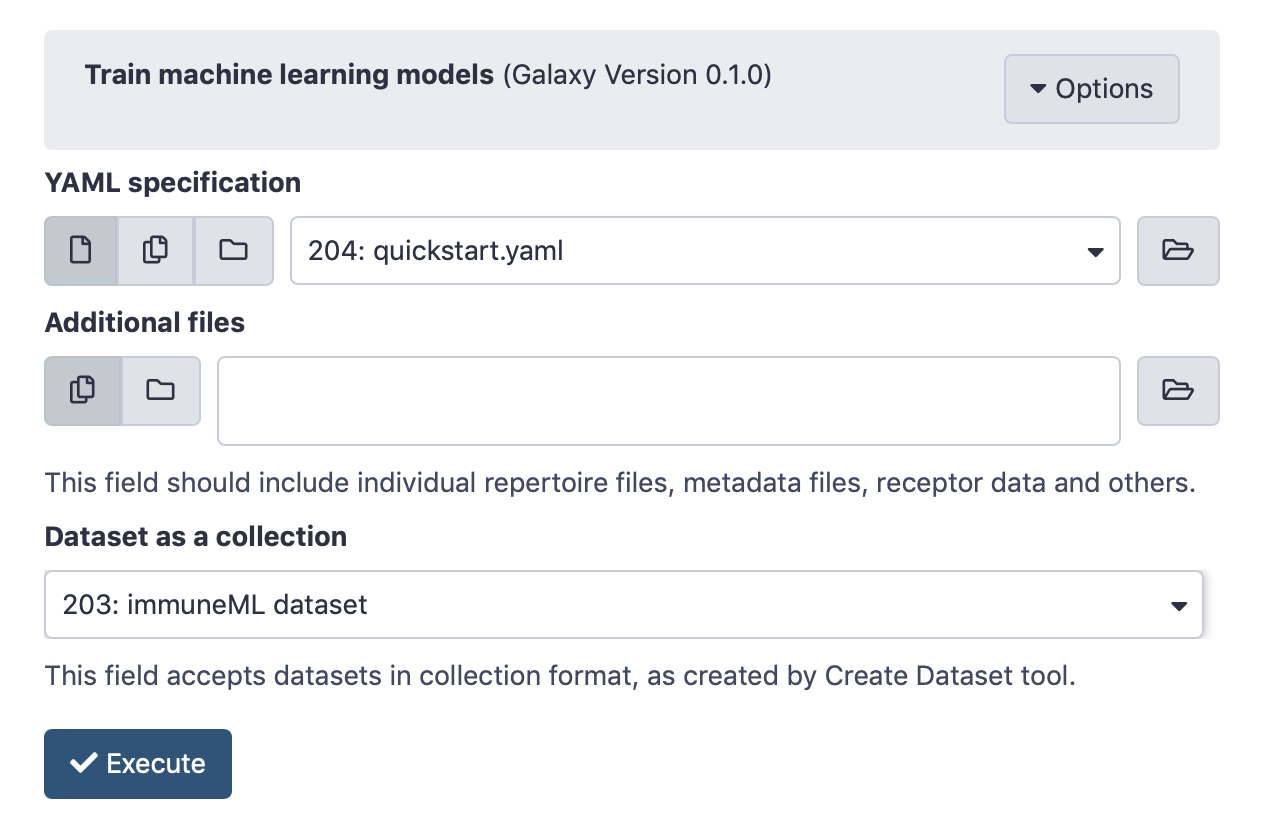
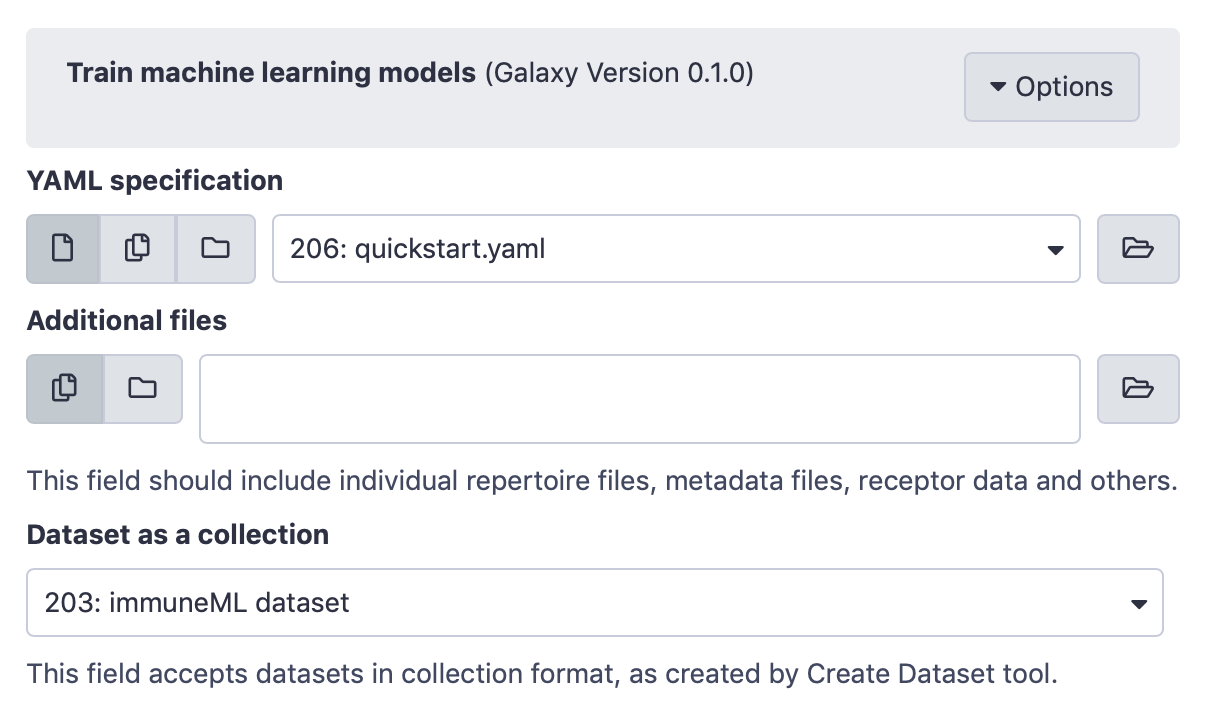
Updated quickstart (#72)
* Updated quickstart; use repertoires from collection now, add 'create dataset' to quickstart

* minor rephrasing to avoid confusion

* update train ML model screenshot so history element numbers match with what user would get

diff --git a/docs/source/quickstart/galaxy_yaml.rst b/docs/source/quickstart/galaxy_yaml.rst
@@ -25,19 +25,20 @@ Step 1: importing the dataset to a Galaxy history
 ^^^^^^^^^^^^^^^^^^^^^^^^^^^^^^^^^^^^^^^^^^^^^^^^^
 
 Every immuneML analysis takes a dataset as input. For the Quickstart tutorial, an example dataset has been prepared and is
-available through `this Galaxy history <https://galaxy.immuneml.uio.no/u/immuneml/h/quickstart-dataset>`_.
+available through `this Galaxy history <https://galaxy.immuneml.uio.no/u/immuneml/h/quickstart-data>`_.
 Alternatively, the tutorial :ref:`How to make an immuneML dataset in Galaxy` describes in detail
 how to make an immuneML dataset using your own data.
 
 This Quickstart dataset Galaxy history contains the following items:
 
+- 100 repertoire .tsv files in AIRR format.
+
+- A Collection of repertoires. This history element collects the 100 above-mentioned repertoire files in a Galaxy collection.
+  To read how to make your own Galaxy collection, see :ref:`Creating a Galaxy collection of files`.
+
 - A metadata.csv file. The metadata file describes which of the 100 repertoires are diseased and healthy, under the
   column named 'signal_disease' which contains the values True and False.
   For details about the metadata file, see :ref:`What should the metadata file look like?`.
-
-- 100 repertoire .tsv files in AIRR format.
-
-- immuneML dataset: a galaxy collection made using the above-mentioned files.
 
 Individual files can be inspected by clicking the eyeball icons.
 To import the complete history, click the + icon in the right upper corner.
@@ -46,8 +47,31 @@ To import the complete history, click the + icon in the right upper corner.
    :alt: import button Galaxy
    :width: 250
 
+Step 2: creating an immuneML Galaxy dataset
+^^^^^^^^^^^^^^^^^^^^^^^^^^^^^^^^^^^^^^^^^^^^^^^^^
+Use the `Create dataset <https://galaxy.immuneml.uio.no/root?tool_id=immune_ml_dataset>`_ Galaxy tool to make an
+immuneML dataset out of the files in the Galaxy history.
+Using the simplified interface, select 'repertoire dataset' and 'AIRR' data format, and select the metadata.csv file as metadata file.
+All repertoire files should be selected under 'Data files'. By default, the menu will allow you to select all txt-like files
+that are present in the Galaxy history. With smaller datasets, you can simply select all individual repertoire
+or receptor files here. Since this is a larger dataset, we will instead select the collection of repertoire files.
+Click the 'Dataset collections' button (folder icon), the menu will now only show the collections in the Galaxy history.
+Select the collection of repertoires so it becomes highlighted.
 
-Step 2: writing the YAML specification
+.. image:: ../_static/images/galaxy/create_dataset_from_collection.png
+   :alt: create dataset from collection
+   :width: 500
+
+Three new items will appear in the Galaxy history. In 'Summary: dataset generation' you can find details about the newly
+generated dataset, including the name of the dataset, the dataset type and size, and a download link.
+
+The next item, 'Archive: dataset generation' contains an archive of the output folder produced by immuneML.
+
+Finally, 'immuneML dataset' is a new Galaxy collection containing all relevant files for the dataset.
+This history item should be selected as an input in subsequent tools.
+
+
+Step 3: writing the YAML specification
 ^^^^^^^^^^^^^^^^^^^^^^^^^^^^^^^^^^^^^^^^^^^^^^^^^
 Any immuneML analysis is described by a YAML specification file.
 This file contains nested key-value pairs. Mandatory keywords with a specific meaning are marked like :code:`this`
@@ -87,10 +111,9 @@ The complete YAML specification for this analysis looks like this and can be dow
     definitions:
       datasets:
         my_dataset: # user-defined dataset name
-          format: AIRR
+          format: Pickle
           params:
-            is_repertoire: true # we are importing a repertoire dataset
-            metadata_file: metadata.csv
+            path: dataset.iml_dataset # 'dataset' is the default name given by the Create dataset tool
 
       encodings:
         my_kmer_frequency: # user-defined encoding name
@@ -144,7 +167,7 @@ The file will appear as a new history element.
    :alt: upload data Galaxy
    :width: 250
 
-Step 3: running the analysis
+Step 4: running the analysis
 ^^^^^^^^^^^^^^^^^^^^^^^^^^^^^^^^^^^^^^^^^^^^^^^^^
 
 Next, the `Train machine learning models <https://galaxy.immuneml.uio.no/root?tool_id=immuneml_train_ml_model>`_ Galaxy tool should be used.
@@ -154,7 +177,7 @@ Select the YAML specification and previously created dataset from the history, a
    :alt: train ML model tool
    :width: 500
 
-Step 4: understanding the results
+Step 5: understanding the results
 ^^^^^^^^^^^^^^^^^^^^^^^^^^^^^^^^^^^^^^^^^^^^^^^^^
 
 After running the Galaxy tool for training ML models, three new items will appear in the Galaxy history.

diff --git a/docs/source/quickstart/galaxy_simple.rst b/docs/source/quickstart/galaxy_simple.rst
@@ -24,19 +24,20 @@ Step 1: importing the dataset to a Galaxy history
 ^^^^^^^^^^^^^^^^^^^^^^^^^^^^^^^^^^^^^^^^^^^^^^^^^
 
 Every immuneML analysis takes a dataset as input. For the Quickstart tutorial, an example dataset has been prepared and is
-available through `this Galaxy history <https://galaxy.immuneml.uio.no/u/immuneml/h/quickstart-dataset>`_.
+available through `this Galaxy history <https://galaxy.immuneml.uio.no/u/immuneml/h/quickstart-data>`_.
 Alternatively, the tutorial :ref:`How to make an immuneML dataset in Galaxy` describes in detail
 how to make an immuneML dataset using your own data.
 
 This Quickstart dataset Galaxy history contains the following items:
 
+- 100 repertoire .tsv files in AIRR format.
+
+- A Collection of repertoires. This history element collects the 100 above-mentioned repertoire files in a Galaxy collection.
+  To read how to make your own Galaxy collection, see :ref:`Creating a Galaxy collection of files`.
+
 - A metadata.csv file. The metadata file describes which of the 100 repertoires are diseased and healthy, under the
   column named 'signal_disease' which contains the values True and False.
   For details about the metadata file, see :ref:`What should the metadata file look like?`.
-
-- 100 repertoire .tsv files in AIRR format.
-
-- immuneML dataset: a galaxy collection made using the above-mentioned files.
 
 Individual files can be inspected by clicking the eyeball icons.
 To import the complete history, click the + icon in the right upper corner.
@@ -45,8 +46,32 @@ To import the complete history, click the + icon in the right upper corner.
    :alt: import button Galaxy
    :width: 250
 
+Step 2: creating an immuneML Galaxy dataset
+^^^^^^^^^^^^^^^^^^^^^^^^^^^^^^^^^^^^^^^^^^^^^^^^^
+Use the `Create dataset <https://galaxy.immuneml.uio.no/root?tool_id=immune_ml_dataset>`_ Galaxy tool to make an
+immuneML dataset out of the files in the Galaxy history.
+Using the simplified interface, select 'repertoire dataset' and 'AIRR' data format, and select the metadata.csv file as metadata file.
+All repertoire files should be selected under 'Data files'. By default, the menu will allow you to select all txt-like files
+that are present in the Galaxy history. With smaller datasets, you can simply select all individual repertoire
+or receptor files here. Since this is a larger dataset, we will instead select the collection of repertoire files.
+Click the 'Dataset collections' button (folder icon), the menu will now only show the collections in the Galaxy history.
+Select the collection of repertoires so it becomes highlighted.
 
-Step 2: running the analysis
+.. image:: ../_static/images/galaxy/create_dataset_from_collection.png
+   :alt: create dataset from collection
+   :width: 500
+
+Three new items will appear in the Galaxy history. In 'Summary: dataset generation' you can find details about the newly
+generated dataset, including the name of the dataset, the dataset type and size, and a download link.
+
+The next item, 'Archive: dataset generation' contains an archive of the output folder produced by immuneML.
+
+Finally, 'immuneML dataset' is a new Galaxy collection containing all relevant files for the dataset.
+This history item should be selected as an input in subsequent tools.
+
+
+
+Step 3: running the analysis
 ^^^^^^^^^^^^^^^^^^^^^^^^^^^^^^^^^^^^^^^^^^^^^^^^^
 
 The immuneML Galaxy instance has two tools that provide a simplified interface for training immune receptor and immune
@@ -64,7 +89,7 @@ For background information explaining the relevant machine learning concepts, pl
 below the tool (the text can also be found in :ref:`the documentation <How to train immune repertoire classifiers using the simplified Galaxy interface>`).
 
 
-Step 3: understanding the results
+Step 4: understanding the results
 ^^^^^^^^^^^^^^^^^^^^^^^^^^^^^^^^^^^^^^^^^^^^^^^^^
 
 After running the Galaxy tool for training ML models, four new items will appear in the Galaxy history.

diff --git a/docs/source/galaxy/galaxy_dataset.rst b/docs/source/galaxy/galaxy_dataset.rst
@@ -16,7 +16,8 @@ The tool has a :ref:`simplified <Using the simplified 'Create dataset' interface
 :ref:`advanced <Using the advanced 'Create dataset' interface>` interface. The simplified interface is fully button-based, and relies
 on default settings for importing datasets. The advanced interface gives full control over import settings through a YAML
 specification. In most cases, the simplified interface will suffice.
-If your history contains more than 100 files, you may want to consider :ref:`making a Galaxy collection directly from files <Making a Galaxy collection directly from files>`.
+
+If your history contains more than 100 files, you may want to consider using a Galaxy collection as input :ref:`using a Galaxy collection as input <Using a Galaxy collection as input>`.
 
 
 See also the following example Galaxy histories, showing how to run the tool:
@@ -54,6 +55,7 @@ In the simplified interface the user has to select an input file format, dataset
 For repertoire datasets, a metadata file must be selected from the history, whereas for sequence- and receptor datasets
 the names of the columns containing metadata must be specified. The names of the metadata columns are in later
 analyses available as labels for the sequence and receptor datasets.
+
 
 In subsequent YAML-based analyses, the dataset created through the simplified interface should be specified like this:
 
@@ -178,28 +180,16 @@ you use it as an input to other tools (while it used to work before), it could b
 To solve this problem, try to rerun the 'Create dataset' tool with the same input files (for example by clicking :ref:`the
 'Run this job again' button <History items>`), and use the new immuneML dataset history element.
 
-
-Making a Galaxy collection directly from files
+Using a Galaxy collection as input
 ----------------------------------------------
-When a dataset contains many files, it may be time consuming to select all files in the 'Create dataset' tool.
-Alternatively, it is possible to directly create a Galaxy collection from files in the history, using the following steps:
+Under 'Data files' (simplified interface) or 'Data and metadata files' (advanced interface), it is possible to select
+a Galaxy collection instead of selection many files manually. See :ref:`Creating a Galaxy collection of files` for details.
+Click the 'Dataset collections' button (folder icon), to toggle the selection menu so that it shows Galaxy collections in the history.
 
-#. If you are currently using a Galaxy history containing any items, create a new Galaxy history (click the '+' icon in the right upper corner).
+.. image:: ../_static/images/galaxy/create_dataset_from_collection.png
+   :alt: create dataset from collection
+   :width: 500
 
-#. Upload all the files relevant for the dataset, this includes the metadata file in case of a repertoire dataset.
-
-#. Click 'operations on multiple datasets' (checkbox icon above the Galaxy history). Checkboxes should now appear in front of the history items.
-
-#. Click 'All' to select all history items.
-
-#. Click 'For all selected...' > 'Build Dataset List' and enter a name for your dataset.
-
-#. Click the 'operations on multiple datasets' button again in order to go back to the normal menu.
-
-The newest item in your history should now contain a Galaxy collection with all dataset files. Note that a difference between
-this method and the above-described methods is that your new dataset is not in Pickle format. Thus, when writing the YAML
-specification for the next immuneML Galaxy tool, you should specify the import parameters for your data format.
-Furthermore, this method does not automatically create a summary page describing the dataset and its available labels.
 
 Tool output
 ---------------------------------------------

diff --git a/docs/source/galaxy/galaxy_intro.rst b/docs/source/galaxy/galaxy_intro.rst
@@ -105,6 +105,27 @@ Look for the tool named **Editor**. You can now edit the file as you want, and b
 item will be generated containing the edited file.
 
 
+Creating a Galaxy collection of files
+-------------------------------------
+When working with many files in Galaxy, it can be inconvenient to have to click on all the files that you want to use
+as input to a tool (for example, when using the `Create dataset <https://galaxy.immuneml.uio.no/root?tool_id=immune_ml_dataset>`_ tool).
+A solution to this is `Galaxy collections <https://training.galaxyproject.org/archive/2019-12-01/topics/galaxy-data-manipulation/tutorials/collections/tutorial.html>`_,
+which are containers for multiple data files.
+
+To create a Galaxy collection, follow these steps:
+
+#. Upload or import all the files that you want in your collection to the Galaxy history.
+
+#. Click 'operations on multiple datasets' (checkbox icon above the Galaxy history). Checkboxes should now appear in front of the history items.
+
+#. Click 'All' to select all history items, or select just those files you want to include.
+
+#. Click 'For all selected...' > 'Build Dataset List' and enter a name for your collection. Your collection should now appear as a new item in the history.
+
+#. Click the 'operations on multiple datasets' button again in order to go back to the normal menu.
+
+
+
 Reporting bugs in Galaxy
 ------------------------
 If a tool run fails and you suspect this might be due to a bug, it is possible to send an automatic bug report.
